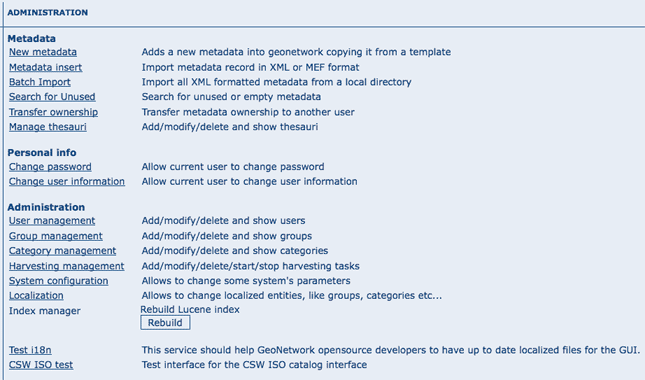
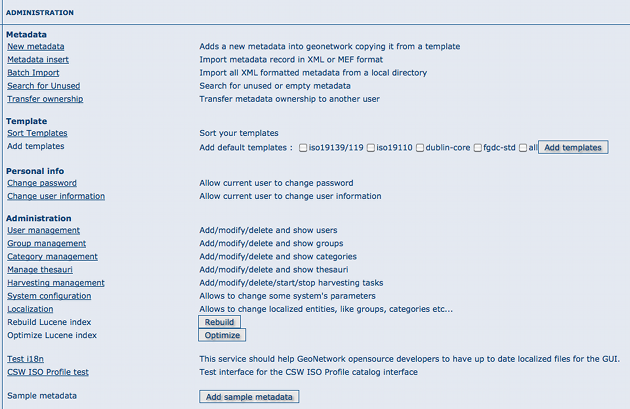
User manual image updates and templates section
git-svn-id: https://geonetwork.svn.sourceforge.net/svnroot/geonetwork/trunk@6392 ff403467-3f20-0410-99e5-ff581e626a08

Changed region(s): [[0.0, 0.0, 1.0, 1.0], [0.2111, 0.8684, 0.9952, 1.0]]

diff --git a/docs/eng/users/source/admin/templates/index.rst b/docs/eng/users/source/admin/templates/index.rst
@@ -1,0 +1,38 @@
+.. _templates:
+
+Templates
+=========
+
+The templates options allows to manage the metadata templates in the catalog. In order to use these 
+facilities, you have to be logged in as an administrator. After the login step, go to the administration 
+page.
+
+.. figure:: templates-where.png
+
+Sort templates
+--------------
+
+This option allows to set the order of the templates avalaible when creating a new metadata.
+
+.. figure:: templates-newmetadata.png
+
+In the administration panel, select Sort Templates option:
+
+.. figure:: templates-sort.png
+
+The list of avalaible templates is shown with the current display order. To change the position of a 
+template click on it's name and drag it to move it to the new position. 
+
+Once the order of templates is configured, click on Save button to save the changes. To cancel the 
+changes and return to the administration form click on Back button.
+
+Add templates
+-------------
+
+This option allows the user to select the metadata templates to add in the catalog to create new metadata
+records. 
+
+.. figure:: templates-add.png
+
+Mark the metadata templates to import and click Add templates button to import them in the catalog 
+and make them are avaliable when creating new metadata records.

diff --git a/docs/eng/users/source/admin/index.rst b/docs/eng/users/source/admin/index.rst
@@ -11,6 +11,7 @@ Administration
     import/index.rst
     harvesting/index.rst
     metadata_ownership/index.rst
+    templates/index.rst
     thesaurus/index.rst
     gast/index.rst
     localization/index.rst
